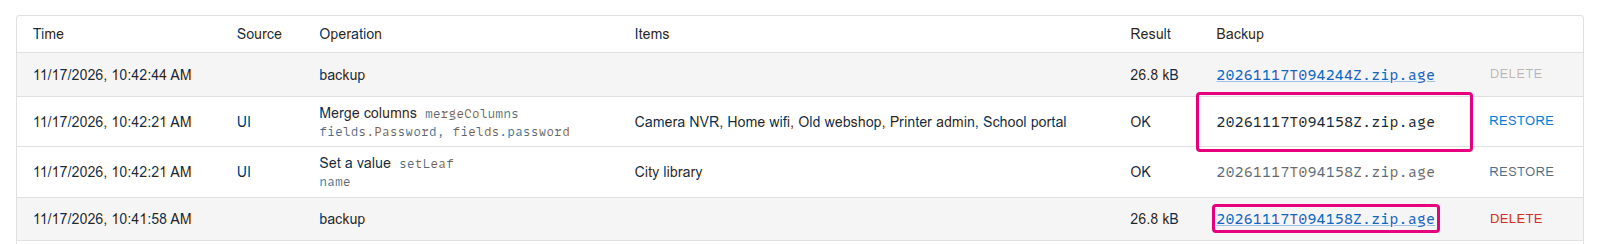
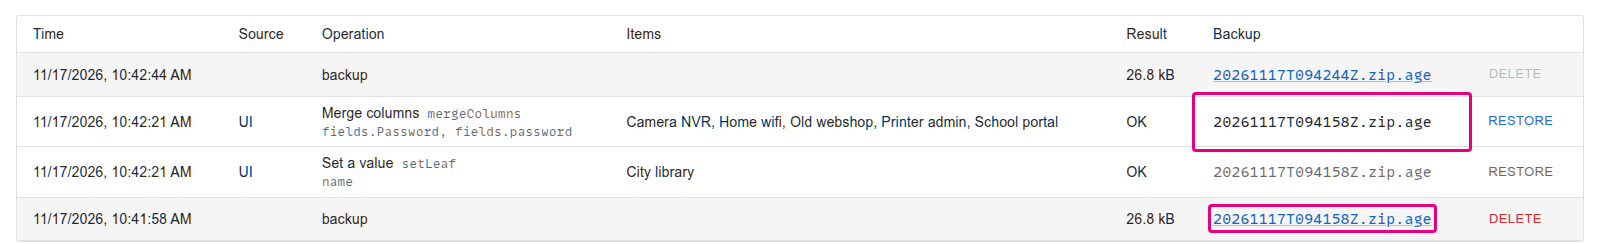
Show the tutorials' Queue and Change log as a fresh vault has them

diff --git a/backend/tests/e2e/support/accounts.py b/backend/tests/e2e/support/accounts.py
@@ -1,0 +1,59 @@
+"""The gateway's account directories and an account made anew (docs/spec.md, Gateway and
+Deleting data)."""
+
+import subprocess
+import time
+
+from playwright.sync_api import Browser
+
+from support.api import COMMIT_TIMEOUT, app_api
+from support.elsewhere import DEV_VAULT
+from support.login import EMAIL
+
+## the gateway's directory of an account on https://vaultwarden (docs/spec.md, Gateway)
+ACCOUNT_DIR = "/data/accounts/vaultwarden/{email}"
+## protocol.py's REQUEST_HEADER, which the account's deletion needs
+REQUEST_HEADER = {"X-Bwtidy-Request": "1"}
+## the gateway deletes the directory once the worker has exited
+GONE_TIMEOUT = 60
+## the auto-commit settings that the account's status answers among others
+AUTO_COMMIT_KEYS = ("afterSeconds", "maxEntries")
+
+
+def account_dir_exists(email: str) -> bool:
+    done = subprocess.run(
+        [str(DEV_VAULT), "exec", "--root", "test", "-d", ACCOUNT_DIR.format(email=email)],
+        stdin=subprocess.DEVNULL,
+        capture_output=True,
+        timeout=60,
+    )
+    return done.returncode == 0
+
+
+def dev_account_anew(browser: Browser, base_url: str) -> None:
+    """Delete the dev account through the API and make it again with its auto-commit.
+
+    The new account has no queue entry, change log row or backup, and its queue numbers start
+    at 1, as for a reader who just logged in the first time. Delete my data would leave the
+    numbers counting on. The vault stays as it is. The account is deleted the way Delete my
+    account does it, so the next login is a Bitwarden login again. The session ends afterwards.
+    """
+    with app_api(browser, base_url) as api:
+        api.wait_saved()
+        status = api.get("/api/queue/auto-commit")
+        auto_commit = {key: status[key] for key in AUTO_COMMIT_KEYS}
+        ## the deletion stops a running background backup first, which can take its next step
+        response = api.request.post(
+            "/api/account/delete",
+            data={"pending": "drop"},
+            headers=REQUEST_HEADER,
+            timeout=COMMIT_TIMEOUT * 1000,
+        )
+        assert response.ok, f"{response.status} from {response.url}"
+    deadline = time.monotonic() + GONE_TIMEOUT
+    while account_dir_exists(EMAIL):
+        assert time.monotonic() < deadline, "the dev account's directory is still there"
+        time.sleep(1)
+    with app_api(browser, base_url) as api:
+        api.put("/api/queue/auto-commit", auto_commit)
+        api.delete("/api/session")

diff --git a/backend/tests/e2e/docs/test_tutorials.py b/backend/tests/e2e/docs/test_tutorials.py
@@ -8,7 +8,10 @@ templates and datatypes of the bwtidy note. A test whose predecessor did not pas
 skips, so a run of one later tutorial alone takes no image (-k test_tutorials runs them all).
 Each test carries the marker tutorial with its docs page, and tests/repo/test_tutorial_order.py
 checks that their order is the one of zensical.toml and docs/index.md. The other docs tests are
-in files of their own, so they run before or after these on the seeded vault.
+in files of their own, so they run before or after these on the seeded vault. Those before leave
+queue entries, change log rows and backups, so one_vault makes the dev account anew before the
+first tutorial: the Queue and the Change log show what a reader's new account has, on a run of
+the tutorials alone as on the full run.
 
 No AI client runs here: test_mcp makes the proposals an agent would make for the tutorial's
 prompt through the real MCP endpoint with the token of the dialog (mcp_caller), so the Queue
@@ -31,6 +34,7 @@ from typing import Any
 
 import pytest
 from playwright.sync_api import Browser, Page, Route, expect
+from support.accounts import dev_account_anew
 from support.api import COMMIT_TIMEOUT, Api, app_api, rows_by_name
 from support.elsewhere import active_ids, last_change_id, put_back
 from support.login import EMAIL, PASSWORD, SERVER
@@ -72,12 +76,14 @@ def wait_saved(api: Api, path: str) -> dict[str, Any]:
 
 @pytest.fixture(scope="module")
 def one_vault(browser: Browser, base_url: str) -> Iterator[list[str]]:
-    """The vault of the tutorials, put back once after the last, with the bwtidy note's
-    templates and datatypes. Yields the names of the tests that passed, in their order.
+    """The vault of the tutorials on the dev account made anew, put back once after the last,
+    with the bwtidy note's templates and datatypes. Yields the names of the tests that passed,
+    in their order.
 
     The session ends afterwards, so the next unlock loads the vault again: the app has not seen
     what put_back deleted.
     """
+    dev_account_anew(browser, base_url)
     with app_api(browser, base_url) as api:
         since = last_change_id(api)
         active_before = active_ids(api)

diff --git a/backend/tests/e2e/test_delete_data.py b/backend/tests/e2e/test_delete_data.py
@@ -7,30 +7,17 @@ backups are gone. Delete my account runs on the restore account only, never on t
 the other files share. test_accounts.py makes the restore account anew at its start.
 """
 
-import subprocess
 import time
 
 from playwright.sync_api import Locator, Page, expect
+from support.accounts import account_dir_exists
 from support.api import COMMIT_TIMEOUT, Api, commit_new_entries, last_entry_id, rows_by_name
-from support.elsewhere import DEV_VAULT
 from support.login import EMAIL, RESTORE_EMAIL, SERVER, enter_account, log_in
 from support.pages import UNLOCK_TIMEOUT, grid, search, type_into
 
 ITEM = "Example Forge"
-## the gateway's directory of an account on https://vaultwarden (docs/spec.md, Gateway)
-ACCOUNT_DIR = "/data/accounts/vaultwarden/{email}"
 ## the deletion stops a running background backup first, which can take its next step
 DELETE_MS = COMMIT_TIMEOUT * 1000
-
-
-def account_dir_exists(email: str) -> bool:
-    done = subprocess.run(
-        [str(DEV_VAULT), "exec", "--root", "test", "-d", ACCOUNT_DIR.format(email=email)],
-        stdin=subprocess.DEVNULL,
-        capture_output=True,
-        timeout=60,
-    )
-    return done.returncode == 0
 
 
 def open_settings(page: Page) -> Locator:

diff --git a/backend/tests/e2e/test_accounts.py b/backend/tests/e2e/test_accounts.py
@@ -12,6 +12,7 @@ from typing import Any
 
 import pytest
 from playwright.sync_api import Browser, BrowserContext, Page, expect
+from support.accounts import ACCOUNT_DIR, account_dir_exists
 from support.api import Api, rows_by_name
 from support.elsewhere import DEV_VAULT
 from support.login import (
@@ -29,8 +30,6 @@ from support.login import (
 from support.pages import TIMEOUT, UNLOCK_TIMEOUT, grid
 
 WRONG_PASSWORD = "not-the-master-password"
-## the gateway's directory of an account on https://vaultwarden (docs/spec.md, Gateway)
-ACCOUNT_DIR = "/data/accounts/vaultwarden/{email}"
 
 
 @pytest.fixture(scope="module", autouse=True)
@@ -80,17 +79,6 @@ def create_dialog(page: Page, email: str):
 
 def names(page: Page) -> set[str]:
     return set(rows_by_name(Api(page.request)))
-
-
-def account_dir_exists(email: str) -> bool:
-    path = ACCOUNT_DIR.format(email=email)
-    done = subprocess.run(
-        [str(DEV_VAULT), "exec", "--root", "test", "-d", path],
-        stdin=subprocess.DEVNULL,
-        capture_output=True,
-        timeout=60,
-    )
-    return done.returncode == 0
 
 
 STARTING = "Starting"

diff --git a/backend/tests/e2e/docs/test_types.py b/backend/tests/e2e/docs/test_types.py
@@ -3,8 +3,7 @@ Statistics page (docs/spec.md, Templates, Datatypes, Statistics).
 
 The template and the datatype are added through the API and taken out again at the end, every
 editor is closed with Cancel, so the vault is as seeded afterwards. Each save is a queue entry
-that stays applied, which the Queue and Change log shots of test_tutorials.py would show, so the
-file's name sorts after it. The Statistics page counts the vault's reloads, which differ by the
+that stays applied. The Statistics page counts the vault's reloads, which differ by the
 tests run, so its shot leaves that out.
 """
 

diff --git a/backend/tests/e2e/support/__init__.py b/backend/tests/e2e/support/__init__.py
@@ -1,5 +1,6 @@
 """Helpers of the e2e tests, one module for each theme.
 
 A test imports a helper from the module that holds it (support.pages, support.login, support.api,
-support.elsewhere, support.mcp, support.fixture, support.vault_items, support.queue_page).
+support.elsewhere, support.mcp, support.fixture, support.vault_items, support.queue_page,
+support.accounts).
 """

diff --git a/dev/testing.md b/dev/testing.md
@@ -589,16 +589,20 @@ reader takes them in order, so `test_tutorials.py` holds one test for each,
 in the order of the docs, each continuing from the vault the one before left.
 Its module-scoped fixture `one_vault` puts the vault back once, after the
 last, and a tutorial whose predecessor did not pass in the run skips
-(`-k test_tutorials` runs them all). Each carries the marker `tutorial`
-with its page, and `tests/repo/test_tutorial_order.py` checks that their
-order is the one of the docs' nav and that only that fixture puts the vault
-back. Times, backup names and backup sizes differ from run to run, and a
-hidden cell (`data-shot-hide`) keeps its width, so the table still sizes its
-column by the real text. A shot that shows them
-routes the API through `FixedValues` (`docs_shots.py`, through `page.route`)
-instead of hiding the cells: it maps them onto fixed ones, times in their
-order. `test_tutorials.py` does so for its Queue and Change log shots,
-`test_explanation.py` for its Change log row.
+(`-k test_tutorials` runs them all). Before the first tutorial the fixture
+deletes the dev account and makes it again (`dev_account_anew` in
+`support/accounts.py`). The tutorials then start from the empty Queue and
+Change log of a reader's new account, whatever docs tests left there before,
+so `-k test_tutorials` takes the same images as the full run. Each tutorial
+test carries the marker `tutorial` with its page, and
+`tests/repo/test_tutorial_order.py` checks that their order is the one of
+the docs' nav and that only that fixture puts the vault back. Times, backup
+names and backup sizes differ from run to run, and a hidden cell
+(`data-shot-hide`) keeps its width, so the table still sizes its column by
+the real text. A shot that shows them routes the API through `FixedValues`
+(`docs_shots.py`, through `page.route`) instead of hiding the cells: it maps
+them onto fixed ones, times in their order. `test_tutorials.py` does so for
+its Queue and Change log shots, `test_explanation.py` for its Change log row.
 
 The full run deletes every image in `docs/images` first, so an image no test
 takes any more is gone. A run of some tests (`-k NAME` or a test path)
